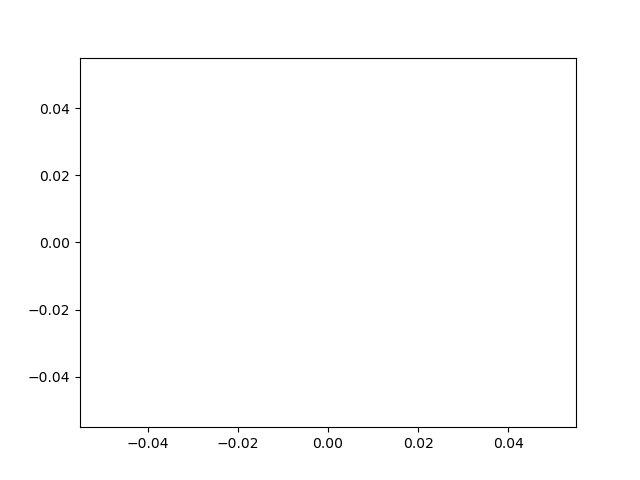
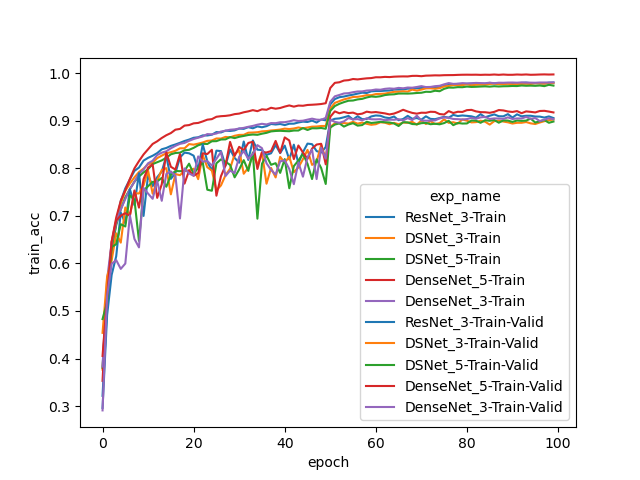
only plot the validation set

diff --git a/scripts/report.py b/scripts/report.py
@@ -32,14 +32,14 @@ print(summarized.head(100))
 df2 = combine_run_training_logs(os.path.join(RESULT_DIR, latest_dir))
 df2 = df2.reset_index()
 df2["fold"] = df2["fold"].apply(int)
-df2["train_acc"] = df2["train_acc"].apply(float)
+# df2["train_acc"] = df2["train_acc"].apply(float)
 df2["val_acc"] = df2["val_acc"].apply(float)
 
 # A bit hacky
-df2["exp_name"] = df2["exp_name"] + "-Train"
-sns_pp = sns.lineplot(data=df2[df2["fold"] == 0],
-                      x="epoch", y="train_acc", hue="exp_name")
-df2["exp_name"] = df2["exp_name"] + "-Valid"
+# df2["exp_name"] = df2["exp_name"] + "-Train"
+# sns_pp = sns.lineplot(data=df2[df2["fold"] == 0],
+# x="epoch", y="train_acc", hue="exp_name")
+df2["exp_name"] = df2["exp_name"] + "_val"
 sns_pp = sns.lineplot(data=df2[df2["fold"] == 0],
                       x="epoch", y="val_acc", hue="exp_name")
 # plt.show()
